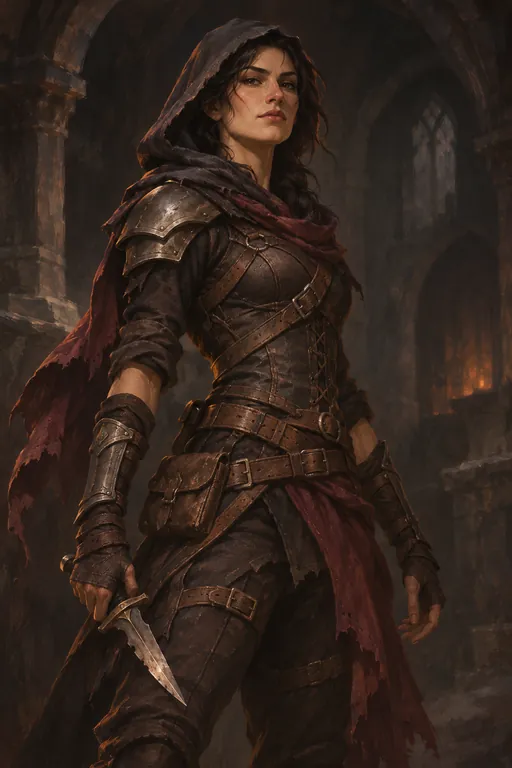
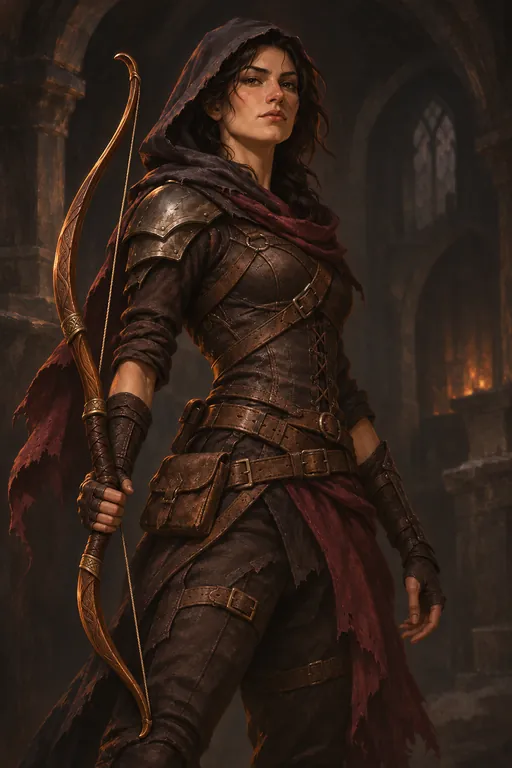
Give the Rogue portrait a bow
Edit the existing Rogue art with a wooden recurve bow in place of the
dagger, preserving her appearance and the portrait's style. Record the
built-in imagegen edit prompt. Keep the delivered portrait at 512x768
WebP, quality 80: 34,086 bytes.

Validation: npm test (138 passed); npm run build (includes type-check);
git diff --check and the staged line-ending gate. Chrome preview confirms
the Rogue portrait decodes, the bow is visible in the selection card,
no 3D assets load for setup and no page errors occur.
Search: rg -n 'rogue.webp|Rogue bow edit prompt' confirms the delivery
asset in the catalog and the retained prompt. Only the portrait and art
provenance change; gameplay and UI copy are untouched.

diff --git a/docs/art/menu.md b/docs/art/menu.md
@@ -24,7 +24,8 @@ hero selection art (`src/app/browser/dungeon/setup.ts`). The radio labels remain
 The roster offers Warrior and Rogue; companions use the same roster. Skeleton remains an
 enemy with its own attributes and mind settings.
 
-**Source.** Generated with the built-in image generation tool from the prompts below.
+**Source.** Generated with the built-in image generation tool from the base prompts below;
+the Rogue's bow uses the edit prompt after its base prompt.
 Each image is resized to 512 × 768 and encoded with Sharp as WebP at quality 80, effort 6.
 The committed WebPs are the delivery assets; regenerating them is optional.
 
@@ -34,8 +35,14 @@ The committed WebPs are the delivery assets; regenerating them is optional.
 Use case: stylized-concept. Asset type: portrait illustration for a dark medieval fantasy game's Warrior hero selection card, vertical 2:3. Primary request: original hand-painted Warrior character art. Subject: one adult human male warrior, strong build, short dark hair, weathered face, practical dark steel breastplate and pauldrons over charcoal leather, muted bronze trim, sword held low. Composition: single character centered, head to knees, head fully visible with generous headroom, calm confident ready stance facing viewer at slight three-quarter angle. Scene: shadowy gothic crypt suggested with loose painterly shapes. Lighting: warm ivory light on face and steel, restrained ember rim light, near-black brown edges. Style: rich detailed painterly fantasy book cover illustration, visible brush texture, grounded anatomy, atmospheric and elegant. Constraints: readable silhouette at small size, no text, no logos, no border, no UI, no skeletons, no 3D render, no photographic look.
 ```
 
-### Rogue prompt
+### Rogue base prompt
 
 ```text
 Use case: stylized-concept. Asset type: portrait illustration for a dark medieval fantasy game's Rogue hero selection card, vertical 2:3. Primary request: original hand-painted Rogue character art. Subject: one adult human female rogue, athletic build, dark hair partly tucked into a charcoal hood, alert self-assured face clearly visible, practical fitted dark leather armour with subtle steel shoulder and forearm protection, worn leather straps, dagger held low. Composition: single character centered, head to knees, head fully visible with generous headroom, poised ready stance facing viewer at slight three-quarter angle. Scene: shadowy gothic crypt suggested with loose painterly shapes. Lighting: warm ivory light on face and leather, restrained ember rim light, near-black brown edges. Style: rich detailed painterly fantasy book cover illustration, visible brush texture, grounded anatomy, atmospheric and elegant. Palette: charcoal, weathered brown leather, muted bronze, faded burgundy accents. Constraints: readable silhouette at small size, no text, no logos, no border, no UI, no skeletons, no 3D render, no photographic look.
+```
+
+### Rogue bow edit prompt
+
+```text
+Use case: precise-object-edit. Input image: edit target, the existing Rogue hero portrait. Replace the dagger in her hand with a clearly recognizable medieval wooden recurve bow held naturally at rest, rising alongside her body so the bow and its taut bowstring are visible in the upper two thirds of this selection-card portrait. Adjust only the hand grip and arm position as needed for a believable bow hold. Keep the same woman, face, hood, dark leather armour, burgundy cloth, anatomy, gothic crypt background, warm lighting, painterly brushwork, framing, and vertical 2:3 composition. Preserve her face unobstructed. The bow should read clearly at small UI size. Remove the dagger entirely. No arrows being fired, no drawn-bow combat pose. No text, UI, labels, border, logo, or watermark.
 ```
